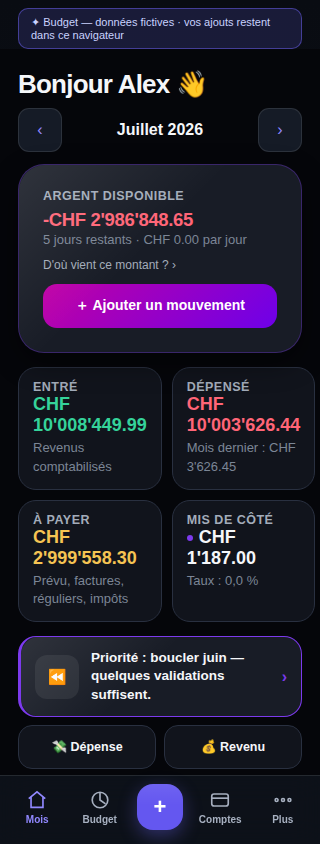
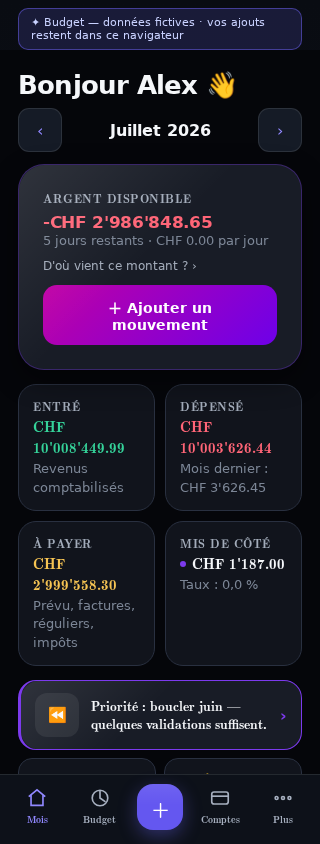
fix(nu2): close pilot isolation and touch target gaps

diff --git a/webapp/index.html b/webapp/index.html
@@ -2407,7 +2407,7 @@ function renderBudget() {
     ${monthNav()}
     <div class="card hero">
       <div style="display:flex;align-items:center;gap:16px;flex-wrap:wrap">
-        <div style="min-width:0;flex:1;flex-basis:200px">
+        <div style="min-width:0;flex:1;flex-basis:${Math.abs(remaining) >= 1000000 ? "100%" : "200px"}">
       <p class="card-label">Reste à dépenser (dépenses budgétées)</p>
       <p class="hero-amount fit-row${remaining < 0 ? " neg" : ""}${Math.abs(remaining) >= 1000000 ? " long" : ""}">${chf(remaining)}</p>
       <div style="margin:6px 0 4px">${planState}</div>
@@ -2493,7 +2493,7 @@ function chartScrubHTML(kind, opts) {
       data-pts="${esc(JSON.stringify(opts.pts))}" data-texts="${esc(JSON.stringify(opts.texts))}" data-caps="${esc(JSON.stringify(opts.caps))}">
       <svg viewBox="0 0 300 100" style="width:100%;height:${opts.height}px" aria-hidden="true">
         ${opts.body}
-        <line data-scrubrule x1="${sx}" y1="4" x2="${sx}" y2="96" stroke="var(--nu-text-tertiary)" stroke-width="1" opacity="0.6"${hidden}/>
+        <line data-scrubrule x1="${sx}" y1="4" x2="${sx}" y2="96" stroke="var(--coolgray)" stroke-width="1" opacity="0.6"${hidden}/>
         <circle data-scrubdot cx="${sx}" cy="${sy}" r="4.5" fill="var(--brand-bright)" stroke="var(--bg)" stroke-width="1.5"${hidden}/>
       </svg>
       <div class="scrub" role="slider" tabindex="0" aria-orientation="horizontal"
@@ -2542,7 +2542,7 @@ function renderAccountDetail(a) {
         caps: MONTHS12.map((mm, i) => `<strong>${MONTH_NAMES[mm.m - 1]} ${mm.y}</strong> : solde <strong>${money(series[i], a.currency || baseCurrency())}</strong>`),
         label: "Courbe du solde sur douze mois — glissez dessus ou utilisez les flèches pour lire un mois",
         hint: "Touchez la courbe ou glissez dessus pour lire le solde d'un mois précis.",
-        body: `<polyline points="${px}" fill="none" stroke="var(--nu-violet)" stroke-width="2.5" stroke-linecap="round"/>`,
+        body: `<polyline points="${px}" fill="none" stroke="var(--electric)" stroke-width="2.5" stroke-linecap="round"/>`,
       })}
     </div>
     <button class="btn" data-reconacc="${esc(a.id)}">Mettre le solde à jour…</button>

diff --git a/webapp/design-system/neon-ultra.css b/webapp/design-system/neon-ultra.css
@@ -412,6 +412,14 @@ html[data-nu-large-text="true"] { font-size: 200%; }
   text-shadow: none;
   color: var(--nu-text-primary);
 }
+/* Le plancher 320 px doit rester robuste avec les polices système les plus
+   larges, pas uniquement avec la police du runner CI. Les chiffres restent
+   tabulaires et entiers ; seule leur taille d'affichage s'adapte. */
+@media (max-width: 340px) {
+  #screen.nu-pilot-screen .hero-amount { font-size: 8.6vw; }
+  #screen.nu-pilot-screen .hero-amount.long { font-size: 5.2vw; }
+  #screen.nu-pilot-screen .stat .amount { font-size: min(15px, 4.7vw); }
+}
 #screen.nu-pilot-screen .pos,
 #screen.nu-pilot-screen .amount.pos { color: var(--nu-positive); }
 #screen.nu-pilot-screen .neg,
@@ -598,7 +606,14 @@ html[data-nu-large-text="true"] { font-size: 200%; }
   border: none;
   color: var(--nu-text-on-cta);
 }
-.sheet.nu-pilot-sheet .f-more summary { color: var(--nu-text-secondary); font-size: 13px; }
+.sheet.nu-pilot-sheet .f-more summary {
+  color: var(--nu-text-secondary);
+  font-size: 13px;
+  min-height: 44px;
+  display: flex;
+  align-items: center;
+  box-sizing: border-box;
+}
 /* Pied collant : jamais caché par le clavier, même surface élevée. */
 .sheet.nu-pilot-sheet .actions.sticky {
   background: var(--nu-surface-elevated);

diff --git a/docs/neon-ultra/pilot/nu2/README.md b/docs/neon-ultra/pilot/nu2/README.md
@@ -11,6 +11,12 @@ Ces captures sont générées par
 **entièrement fictif** (« Alex & Charlie ») et le jeu de démonstration de
 l'app. Aucune donnée réelle du propriétaire n'apparaît.
 
+Le passage de clôture technique a également vérifié l'isolation au niveau des
+styles calculés : la courbe et la règle de lecture du détail Compte conservent
+leurs rôles Obsidian, sans aucune référence `--nu-*`. La cible
+« Détails (facultatif) » du formulaire mesure au moins 44 px et les montants
+extrêmes restent entiers avec une police système plus large que celle de la CI.
+
 Régénération :
 
 ```
@@ -44,12 +50,12 @@ fichiers côte à côte pour juger l'avant/après.
 | --- | --- | --- |
 | `nu2-pwa-390-mois.png` | 390×844 | Écran Mois piloté : hiérarchie 75 % noir / 15 % gris / 10 % néon, un seul point focal lumineux, aucun halo autour des montants |
 | `nu2-pwa-320-mois.png` | 320×844 | Même écran au plancher supporté : rien ne déborde, rien n'est coupé |
-| `nu2-pwa-320-mois-extreme.png` | 320×844 | Montants fictifs à sept chiffres, positifs et négatifs : le héros passe en variante `long`, les quatre métriques restent lisibles |
+| `nu2-pwa-320-mois-extreme.png` | 320×844 | Montants fictifs à sept chiffres, positifs et négatifs : le héros passe en variante `long`, les quatre métriques restent entières et lisibles, y compris avec une police système large |
 | `nu2-pwa-390-budget.png` | 390×844 | Budget chargé : anneau accessible, état du plan écrit, jauges mates, planifié et réel nommés séparément |
 | `nu2-pwa-320-budget.png` | 320×844 | Budget à 320 px : en-têtes de ligne repliés, aucune collision |
 | `nu2-pwa-390-budget-vide.png` | 390×844 | État vide **pédagogique** : une promesse, une action unique en dégradé, puis les trois étapes de « Comment ça marche » |
 | `nu2-pwa-390-ajouter-menu.png` | feuille | Menu Ajouter : huit destinations intactes, toutes ≥ 44 px, aucune hiérarchie artificielle |
-| `nu2-pwa-390-mouvement.png` | feuille | Nouveau mouvement : montant dominant, intitulé long entièrement visible, focus cyan, CTA unique |
+| `nu2-pwa-390-mouvement.png` | feuille | Nouveau mouvement : montant dominant, intitulé long entièrement visible, focus cyan, CTA unique et contrôle repliable ≥ 44 px |
 | `nu2-pwa-390-erreur.png` | feuille | Erreur de saisie : message corail `#FF6577` **collé au champ fautif**, bordure d'erreur, champ focalisé, feuille conservée |
 | `nu2-pwa-320-mouvement-clavier.png` | 320×260 | Clavier logiciel simulé : le montant reste atteignable et « Enregistrer » reste visible grâce au pied collant |
 | `nu2-pwa-320-texte-200.png` | 320 @ ×2 | Texte agrandi 200 % (zoom de page fidèle + bascule `data-large-text`) : aucune fonction perdue, aucune troncature interne |

diff --git a/NEON_ULTRA_STATUS.md b/NEON_ULTRA_STATUS.md
@@ -39,6 +39,10 @@ la feuille `#quickMenu` (Ajouter) et la feuille `#txForm`
   (`animateHeroAmount`, 200 ms, neutralisée sous mouvement réduit).
 - Tous les tokens Obsidian d'`index.html` sont vérifiés **inchangés** par
   test, et le tableau BANNED historique reste intact.
+- La vérification de clôture interdit désormais toute référence
+  `var(--nu-*)` injectée hors des deux renderers pilotes. Elle ouvre aussi le
+  détail Compte et mesure ses styles calculés : courbe Indigo et règle grise
+  restent strictement Obsidian, sans classe pilote.
 
 ### Ce qui change à l'écran
 
@@ -61,6 +65,11 @@ la feuille `#quickMenu` (Ajouter) et la feuille `#txForm`
 - **Correctif d'accessibilité découvert par le lot** : la zone cliquable
   d'une facture (`.meta[role="button"]`) tombait à 29 px de haut à 320 px.
   Elle est ramenée à 44 px minimum dans la portée pilote.
+- **Correctifs de clôture** : la cible repliable
+  « Détails (facultatif) » mesure elle aussi au moins 44 px ; à 320 px, les
+  montants héros, métriques et Budget s'adaptent aux polices système larges
+  sans perdre un chiffre. Un Budget à sept chiffres réorganise son héros
+  avant de réduire le montant.
 
 ### Preuves
 
@@ -70,7 +79,8 @@ la feuille `#quickMenu` (Ajouter) et la feuille `#txForm`
   centime, erreur de formulaire, accessibilité 320 px / focus / mouvement
   réduit, HTTP + service worker + hors-ligne) · 5 fixtures de parité ·
   design system Obsidian **et** fondations NU1 **et** surfaces pilotes NU2
-  verts · zéro erreur console.
+  verts · zéro erreur console. Le passage final mesure aussi tous les
+  contrôles visibles du formulaire et inspecte le détail Compte.
 - **HTTP, rechargement et hors-ligne** : serveur local réel, `sw.js` livré
   tel quel (aucune modification, nom de cache inchangé), page réellement
   **contrôlée** par le service worker, rechargement en ligne puis coupure
